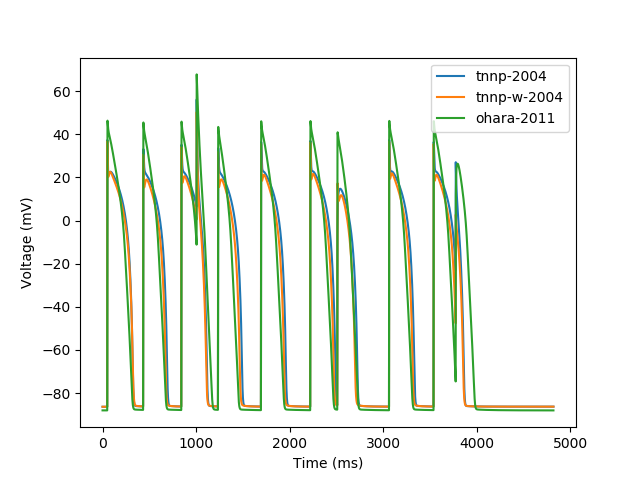
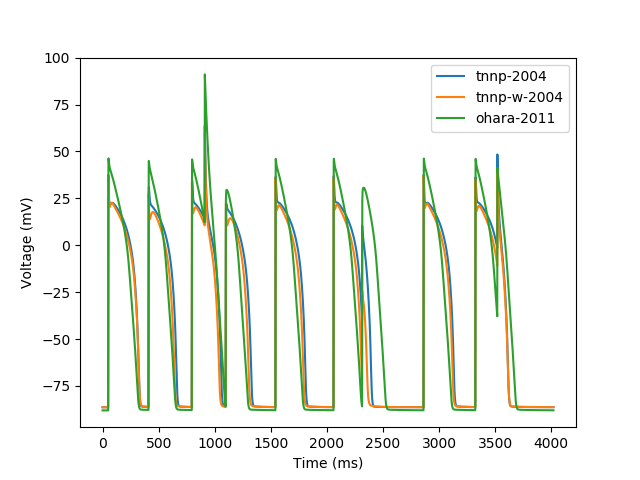
Slight fixes

diff --git a/action-potential-models/method/model.py b/action-potential-models/method/model.py
@@ -70,16 +70,18 @@ class Timeout(myokit.ProgressReporter):
         return self.b.time() < self.max_time
 
 
+parameters = [
+        'ina.s', 'ical.s', 'ikr.s', 'iks.s', 'ito.s', 'inaca.s', 'ik1.s',
+        'inak.s', #'if.s',
+        ]
+
+
 #
 # Create ForwardModel
 #
 
 class Model(pints.ForwardModel):
-    parameters = [
-        'ina.s', 'ical.s', 'ikr.s', 'iks.s', 'ito.s', 'inaca.s', 'ik1.s',
-        'inak.s', #'if.s', 
-        ]
-    
+
     def __init__(self, model_file, prepace=10, stimulate=True, stim_seq=None,
             transform=None, max_evaluation_time=5, norm=False):
         """
@@ -104,6 +106,7 @@ class Model(pints.ForwardModel):
         self.transform = transform
         self.presimulation = myokit.Simulation(self._model)
         self.simulation = myokit.Simulation(self._model)
+        self.parameters = parameters
 
         # Set stimulus default level
         try:

diff --git a/action-potential-models/test-model.py b/action-potential-models/test-model.py
@@ -61,11 +61,11 @@ del(model_tnnp, model_tnnpw, model_ohara)
 # Input stimuli
 np.random.seed(101)
 random_stim = [(0, 50)]
-for r in np.random.uniform(150, 600, size=10):
-    random_stim.append((1, 5))  # stim duration use default
+for r in np.random.uniform(100, 600, size=10):
+    random_stim.append((1, 1))  # stim duration use default
     random_stim.append((0, r))
-random_stim.append((1, 5))
-random_stim.append((0, 1000))
+random_stim.append((1, 1))  # stim duration use default
+random_stim.append((0, 500))
 
 times = np.arange(0, np.sum(np.asarray(random_stim)[:, 1]), 0.2)
 

diff --git a/action-potential-models/README.md b/action-potential-models/README.md
@@ -16,8 +16,8 @@ Then we will _ignore_ the discrepancy and process will our analysis with the inc
 In this tutorial, we split our protocols into calibration and COU uses.
 Note that here we do not have validation protocol, as to emphasise the importance of validation.
 
-- Protocol `1hz`: calibration.
-- Protocol `2hz`: calibration.
+- Protocol `stim1hz`: calibration.
+- Protocol `stim2hz`: calibration.
 - Protocol `randstim`: calibration.
 - Protocol `hergblock`: COU prediction.
 - Protocol `current`: COU prediction.
